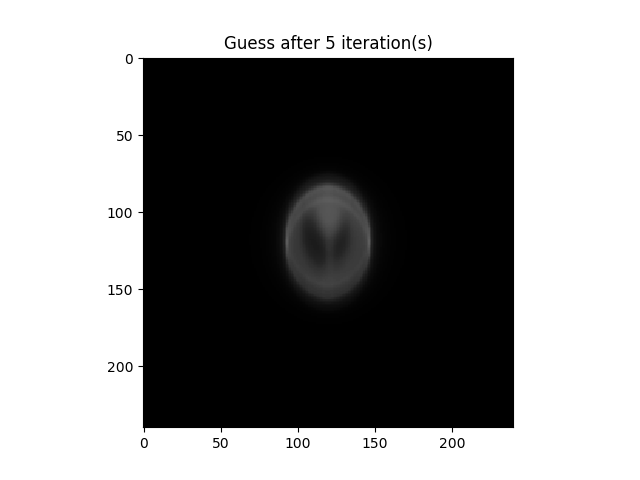
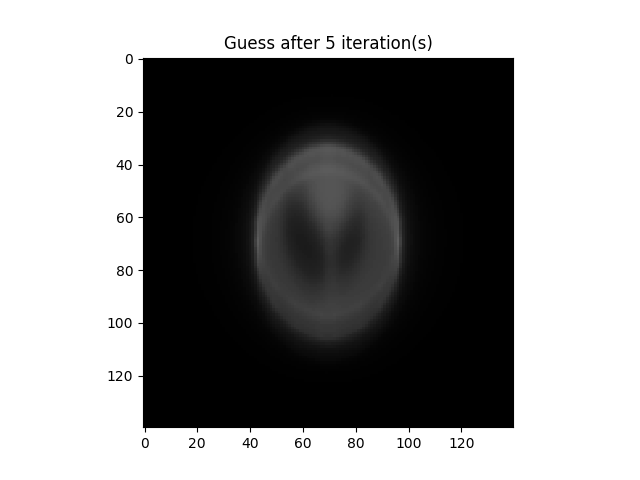
Gekopieerde code in EM loop weggehaald

diff --git a/STIROefeningManon/MotionModelProjSpaceNoSTIR/MotionModelProjSpaceNoSTIR.py b/STIROefeningManon/MotionModelProjSpaceNoSTIR/MotionModelProjSpaceNoSTIR.py
@@ -87,30 +87,8 @@ quadErrorSumFoundList = []
 quadErrorSumListList = []
 guessSum = []
 guessSum.append(np.sum(guess))
+invSlopeFound = 0.0 # Initial guess  
 for iIt in range(nIt): 
-    totalError = 0 
-    if(iIt < 4): 
-        # Normal MLEM 
-        for iFrame in range(nFrames): 
-            error = measList[iFrame]/radon(guess, iAngles) 
-            error[np.isnan(error)] = 0
-            error[np.isinf(error)] = 0
-            error[error > 1E10] = 0;
-            error[error < 1E-10] = 0
-            errorBck = iradon(error, iAngles, filter = None) 
-            totalError += errorBck
-        guess *= totalError/nFrames
-        guess /= np.sum(guess) 
-        guess *= np.sum(measList[-1])/np.shape(measList[-1])[1] 
-        guessTMP = np.zeros((1,) + np.shape(image2D))
-        guessTMP[0,:,:] = guess
-        pyvpx.numpy2vpx(guessTMP, figSaveDir + 'guess_{}.vpx'.format(iIt)) 
-        guessSum.append(np.sum(guess))
-        countIt = iIt+1 
-
-        plt.figure(), plt.title('Guess after {} iteration(s)'.format(iIt+1)), plt.imshow(guess, interpolation = None, vmin = 0, vmax = np.max(image2D), cmap=plt.cm.Greys_r), plt.savefig(figSaveDir + 'Fig{}_TrueShift{}_finalImage.png'.format(numFigures, trueShiftAmplitude)), plt.close()
-        numFigures += 1 
-
     if (iIt >= 4):
         # Motion model optimization
         quadErrorSumList = []   
@@ -138,32 +116,32 @@ for iIt in range(nIt):
         numFigures += 1 
         plt.close()
 
-        totalError = 0 
-        # Normal MLEM with motion compensation 
-        for iFrame in range(nFrames): 
-            shiftedGuess = np.zeros(np.shape(guess))
-            shiftedGuess = sp.ndimage.shift(copy.deepcopy(guess), (surSignal[iFrame] * invSlopeFound, 0))
-            shiftedGuessSinogram = radon(shiftedGuess, iAngles) 
-            error = measList[iFrame]/shiftedGuessSinogram 
-            error[np.isnan(error)] = 0
-            error[np.isinf(error)] = 0
-            error[error > 1E10] = 0;
-            error[error < 1E-10] = 0
-            errorBck = iradon(error, iAngles, filter = None) 
-            errorBckShifted = np.zeros(np.shape(errorBck))
-            errorBckShifted = sp.ndimage.shift(errorBck, (-surSignal[iFrame] * invSlopeFound, 0))
-            totalError += errorBckShifted   
-        guess *= totalError/nFrames
-        guess /= np.sum(guess) 
-        guess *= np.sum(measList[-1])/np.shape(measList[-1])[1] 
-        guessTMP = np.zeros((1,) + np.shape(image2D))
-        guessTMP[0,:,:] = guess
-        pyvpx.numpy2vpx(guessTMP, figSaveDir + 'guess_{}.vpx'.format(iIt)) 
-        guessSum.append(np.sum(guess))
-        countIt = iIt+1 
+    totalError = 0 
+    # MLEM with motion compensation 
+    for iFrame in range(nFrames): 
+        shiftedGuess = np.zeros(np.shape(guess)) ## 
+        shiftedGuess = sp.ndimage.shift(copy.deepcopy(guess), (surSignal[iFrame] * invSlopeFound, 0)) ## 
+        shiftedGuessSinogram = radon(shiftedGuess, iAngles) ## 
+        error = measList[iFrame]/shiftedGuessSinogram 
+        error[np.isnan(error)] = 0
+        error[np.isinf(error)] = 0
+        error[error > 1E10] = 0;
+        error[error < 1E-10] = 0
+        errorBck = iradon(error, iAngles, filter = None) 
+        errorBckShifted = np.zeros(np.shape(errorBck)) ## 
+        errorBckShifted = sp.ndimage.shift(errorBck, (-surSignal[iFrame] * invSlopeFound, 0)) ## 
+        totalError += errorBckShifted   
+    guess *= totalError/nFrames
+    guess /= np.sum(guess) 
+    guess *= np.sum(measList[-1])/np.shape(measList[-1])[1] 
+    guessTMP = np.zeros((1,) + np.shape(image2D))
+    guessTMP[0,:,:] = guess
+    pyvpx.numpy2vpx(guessTMP, figSaveDir + 'guess_{}.vpx'.format(iIt)) 
+    guessSum.append(np.sum(guess))
+    countIt = iIt+1 
 
-        plt.figure(), plt.title('Guess after {} iteration(s)'.format(iIt+1)), plt.imshow(guess, interpolation = None, vmin = 0, vmax = np.max(image2D), cmap=plt.cm.Greys_r), plt.savefig(figSaveDir + 'Fig{}_TrueShift{}_finalImage.png'.format(numFigures, trueShiftAmplitude)), plt.close()
-        numFigures += 1  
+    plt.figure(), plt.title('Guess after {} iteration(s)'.format(iIt+1)), plt.imshow(guess, interpolation = None, vmin = 0, vmax = np.max(image2D), cmap=plt.cm.Greys_r), plt.savefig(figSaveDir + 'Fig{}_TrueShift{}_finalImage.png'.format(numFigures, trueShiftAmplitude)), plt.close()
+    numFigures += 1  
 
 plt.figure(), plt.subplot(1,2,1), plt.title('Original Image'), plt.imshow(originalImage[0,:,:], interpolation=None, vmin = 0, vmax = np.max(image2D), cmap=plt.cm.Greys_r)
 plt.subplot(1,2,2), plt.title('Reconstructed Image'), plt.imshow(guess, interpolation=None, vmin = 0, vmax = np.max(image2D), cmap=plt.cm.Greys_r), plt.savefig(figSaveDir + 'Fig{}_TrueShift{}_originalAndRecon.png'.format(numFigures, trueShiftAmplitude)), plt.close() 

diff --git a/STIROefeningManon/MotionModelProjSpaceNoSTIR/ManonsFunctions.py b/STIROefeningManon/MotionModelProjSpaceNoSTIR/ManonsFunctions.py
@@ -22,11 +22,11 @@ def make_Phantom(phantom, duration, noiseLevel):
         imageSmall = imread(data_dir + "/phantom.png", as_grey=True)
         imageSmall = rescale(imageSmall, scale=0.2)
 
-        tmpY = np.zeros((80, np.shape(imageSmall)[1])) 
+        tmpY = np.zeros((40, np.shape(imageSmall)[1])) 
         image = np.concatenate((tmpY, imageSmall), axis = 0)
         image = np.concatenate((image, tmpY), axis = 0)
 
-        tmpX = np.zeros((np.shape(image)[0], 80))
+        tmpX = np.zeros((np.shape(image)[0], 40))
         image = np.concatenate((tmpX, image), axis = 1)
         image = np.concatenate((image, tmpX), axis = 1)
 
